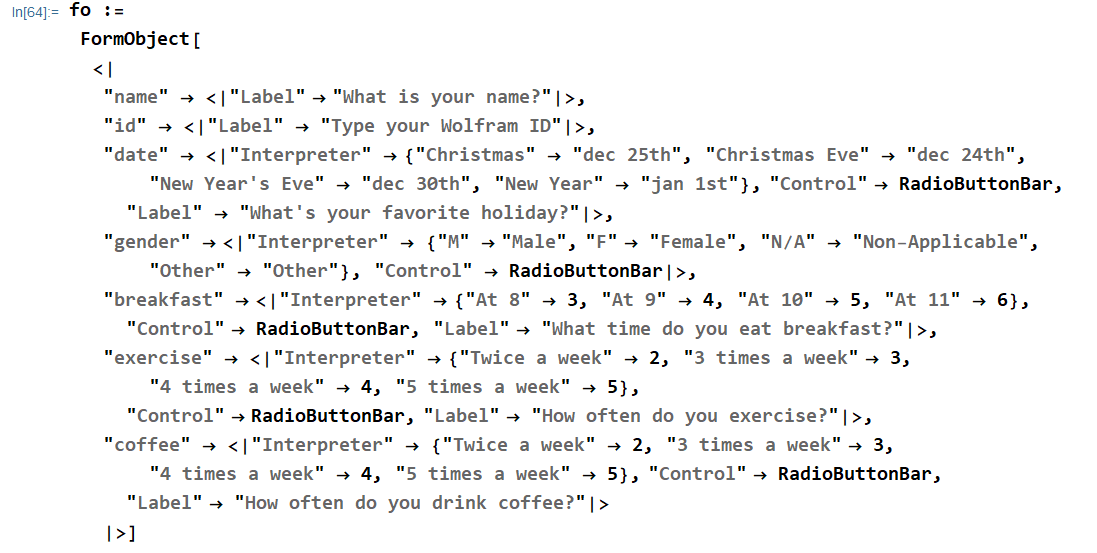
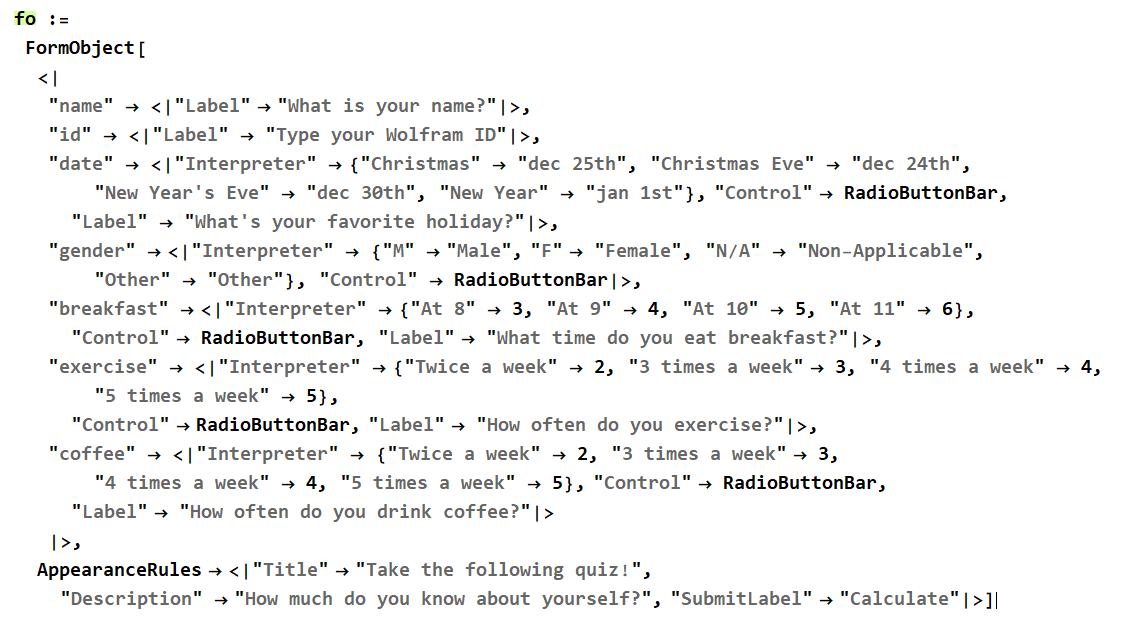
update README

diff --git a/README.md b/README.md
@@ -35,4 +35,18 @@ And notice that each object has its own association and it contains a few option
 - `Interpreter`: For the object to use a control function like `RadioButtonBar` and understand the input, `Interpreter` was used to create 4 unique choices and each choice was interpreted accordingly.
 - `RadioButtonBar`: As mentioned above, the multiple choice question format was created by using `RadioButtonBar`.
 - `Label`: `Label` was used as a question attached to each object to ask the user to choose one option among the choices.
-- I could've used `AppearanceRules` and `FormLayoutFunction` to give the form a title and description but for now I'm just going to let the form display in its default format.
+- `AppearanceRules`: This part gives the form a title, description, and a label for the submit button.
+
+## Second Step: Databin to store data
+
+![](Resources/CreateDataBin.png)
+
+Here, a databin was created by using the `CreateDatabin[]` function and it is stored in the Wofram Data Drop. In Data Drop, all the data the users input will be stored.
+
+- `Name`: The name of the `Databin` is **WL Exercise**
+- `Permissions`: This is set to public so anyone with the ID of this databin can access the data inside it.
+- The list of data with its data types is defined here as well.
+
+## Third Step: FormFunction[]
+
+For the user to be able to
